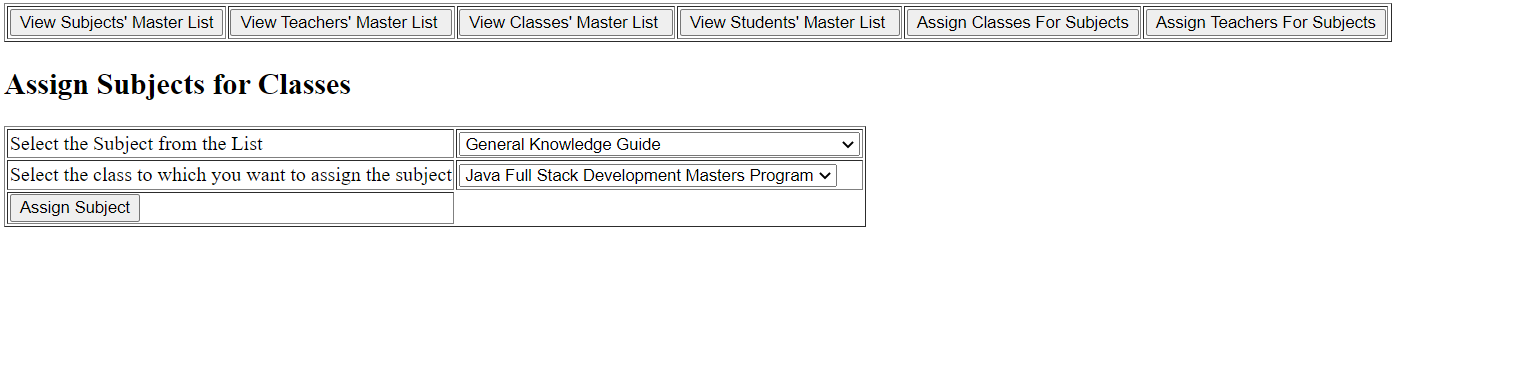
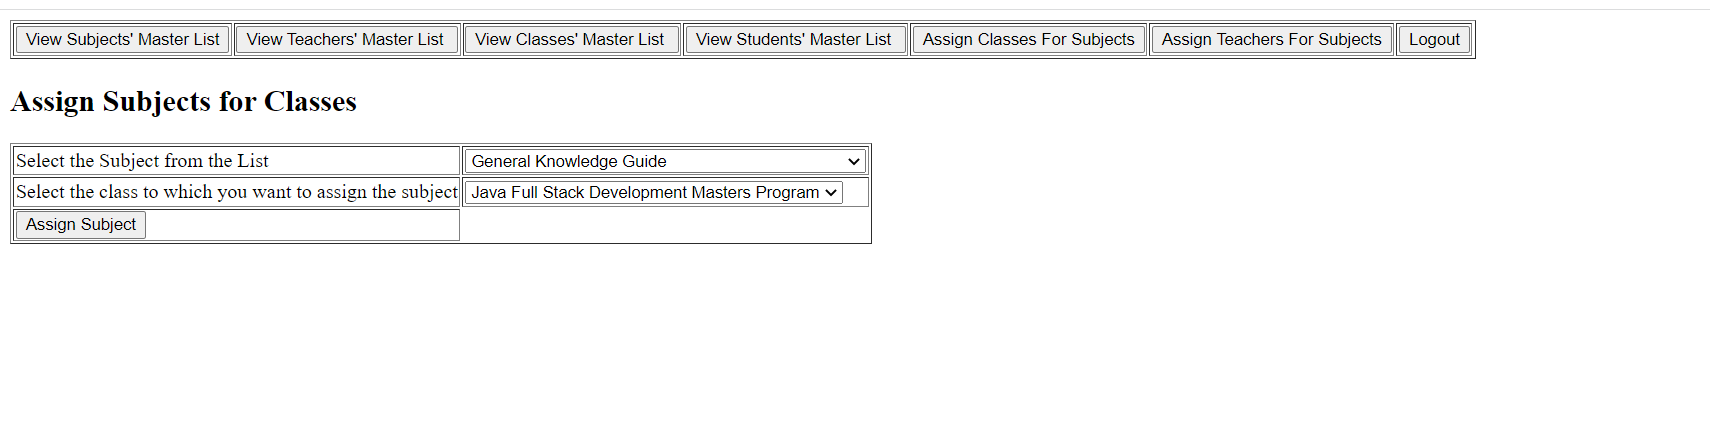
second commit

diff --git a/Phase2 - Final Project Learners Academy/src/main/java/mypack/controller/LogoutController.java b/Phase2 - Final Project Learners Academy/src/main/java/mypack/controller/LogoutController.java
@@ -1,0 +1,24 @@
+package mypack.controller;
+
+import java.io.IOException;
+import javax.servlet.ServletException;
+import javax.servlet.annotation.WebServlet;
+import javax.servlet.http.HttpServlet;
+import javax.servlet.http.HttpServletRequest;
+import javax.servlet.http.HttpServletResponse;
+import javax.servlet.http.HttpSession;
+
+
+@WebServlet("/adminLogout")
+public class LogoutController extends HttpServlet {
+	private static final long serialVersionUID = 1L;
+
+	
+	protected void service(HttpServletRequest request, HttpServletResponse response) throws ServletException, IOException {
+		HttpSession session = request.getSession();
+		session.removeAttribute("adminUserid");
+		session.invalidate();
+		response.sendRedirect("adminlogin.jsp");
+	}
+
+}
